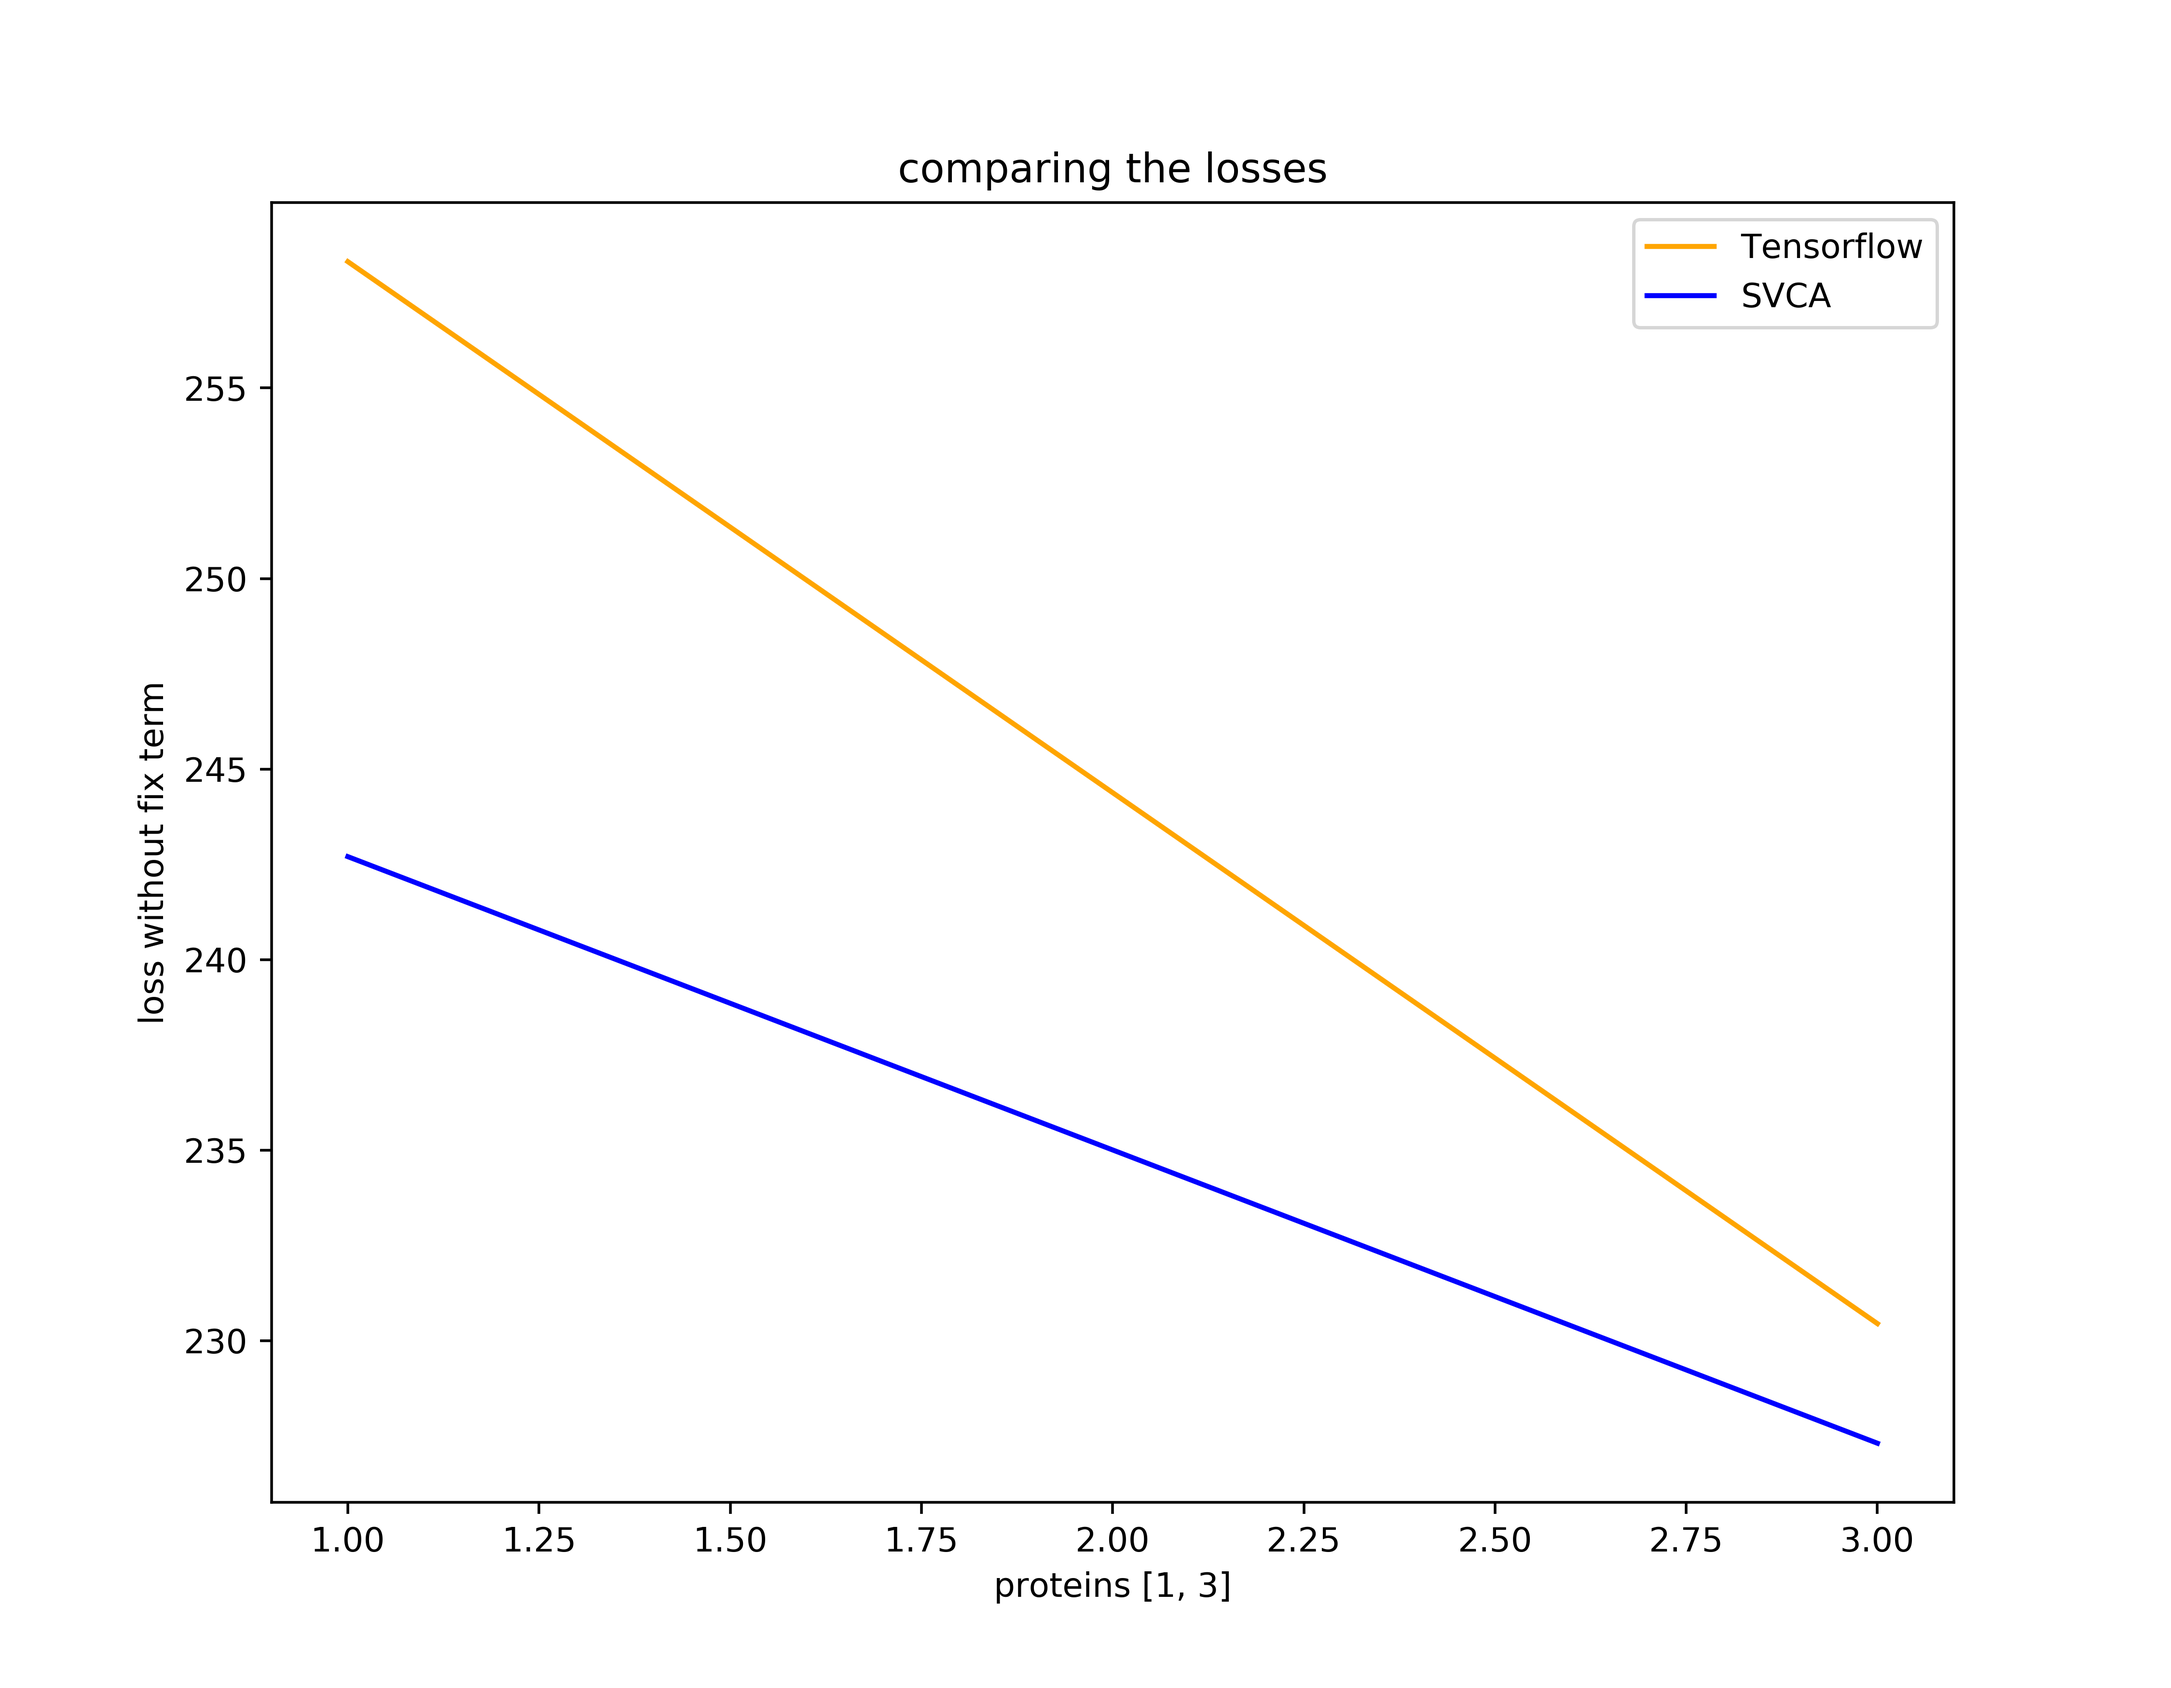
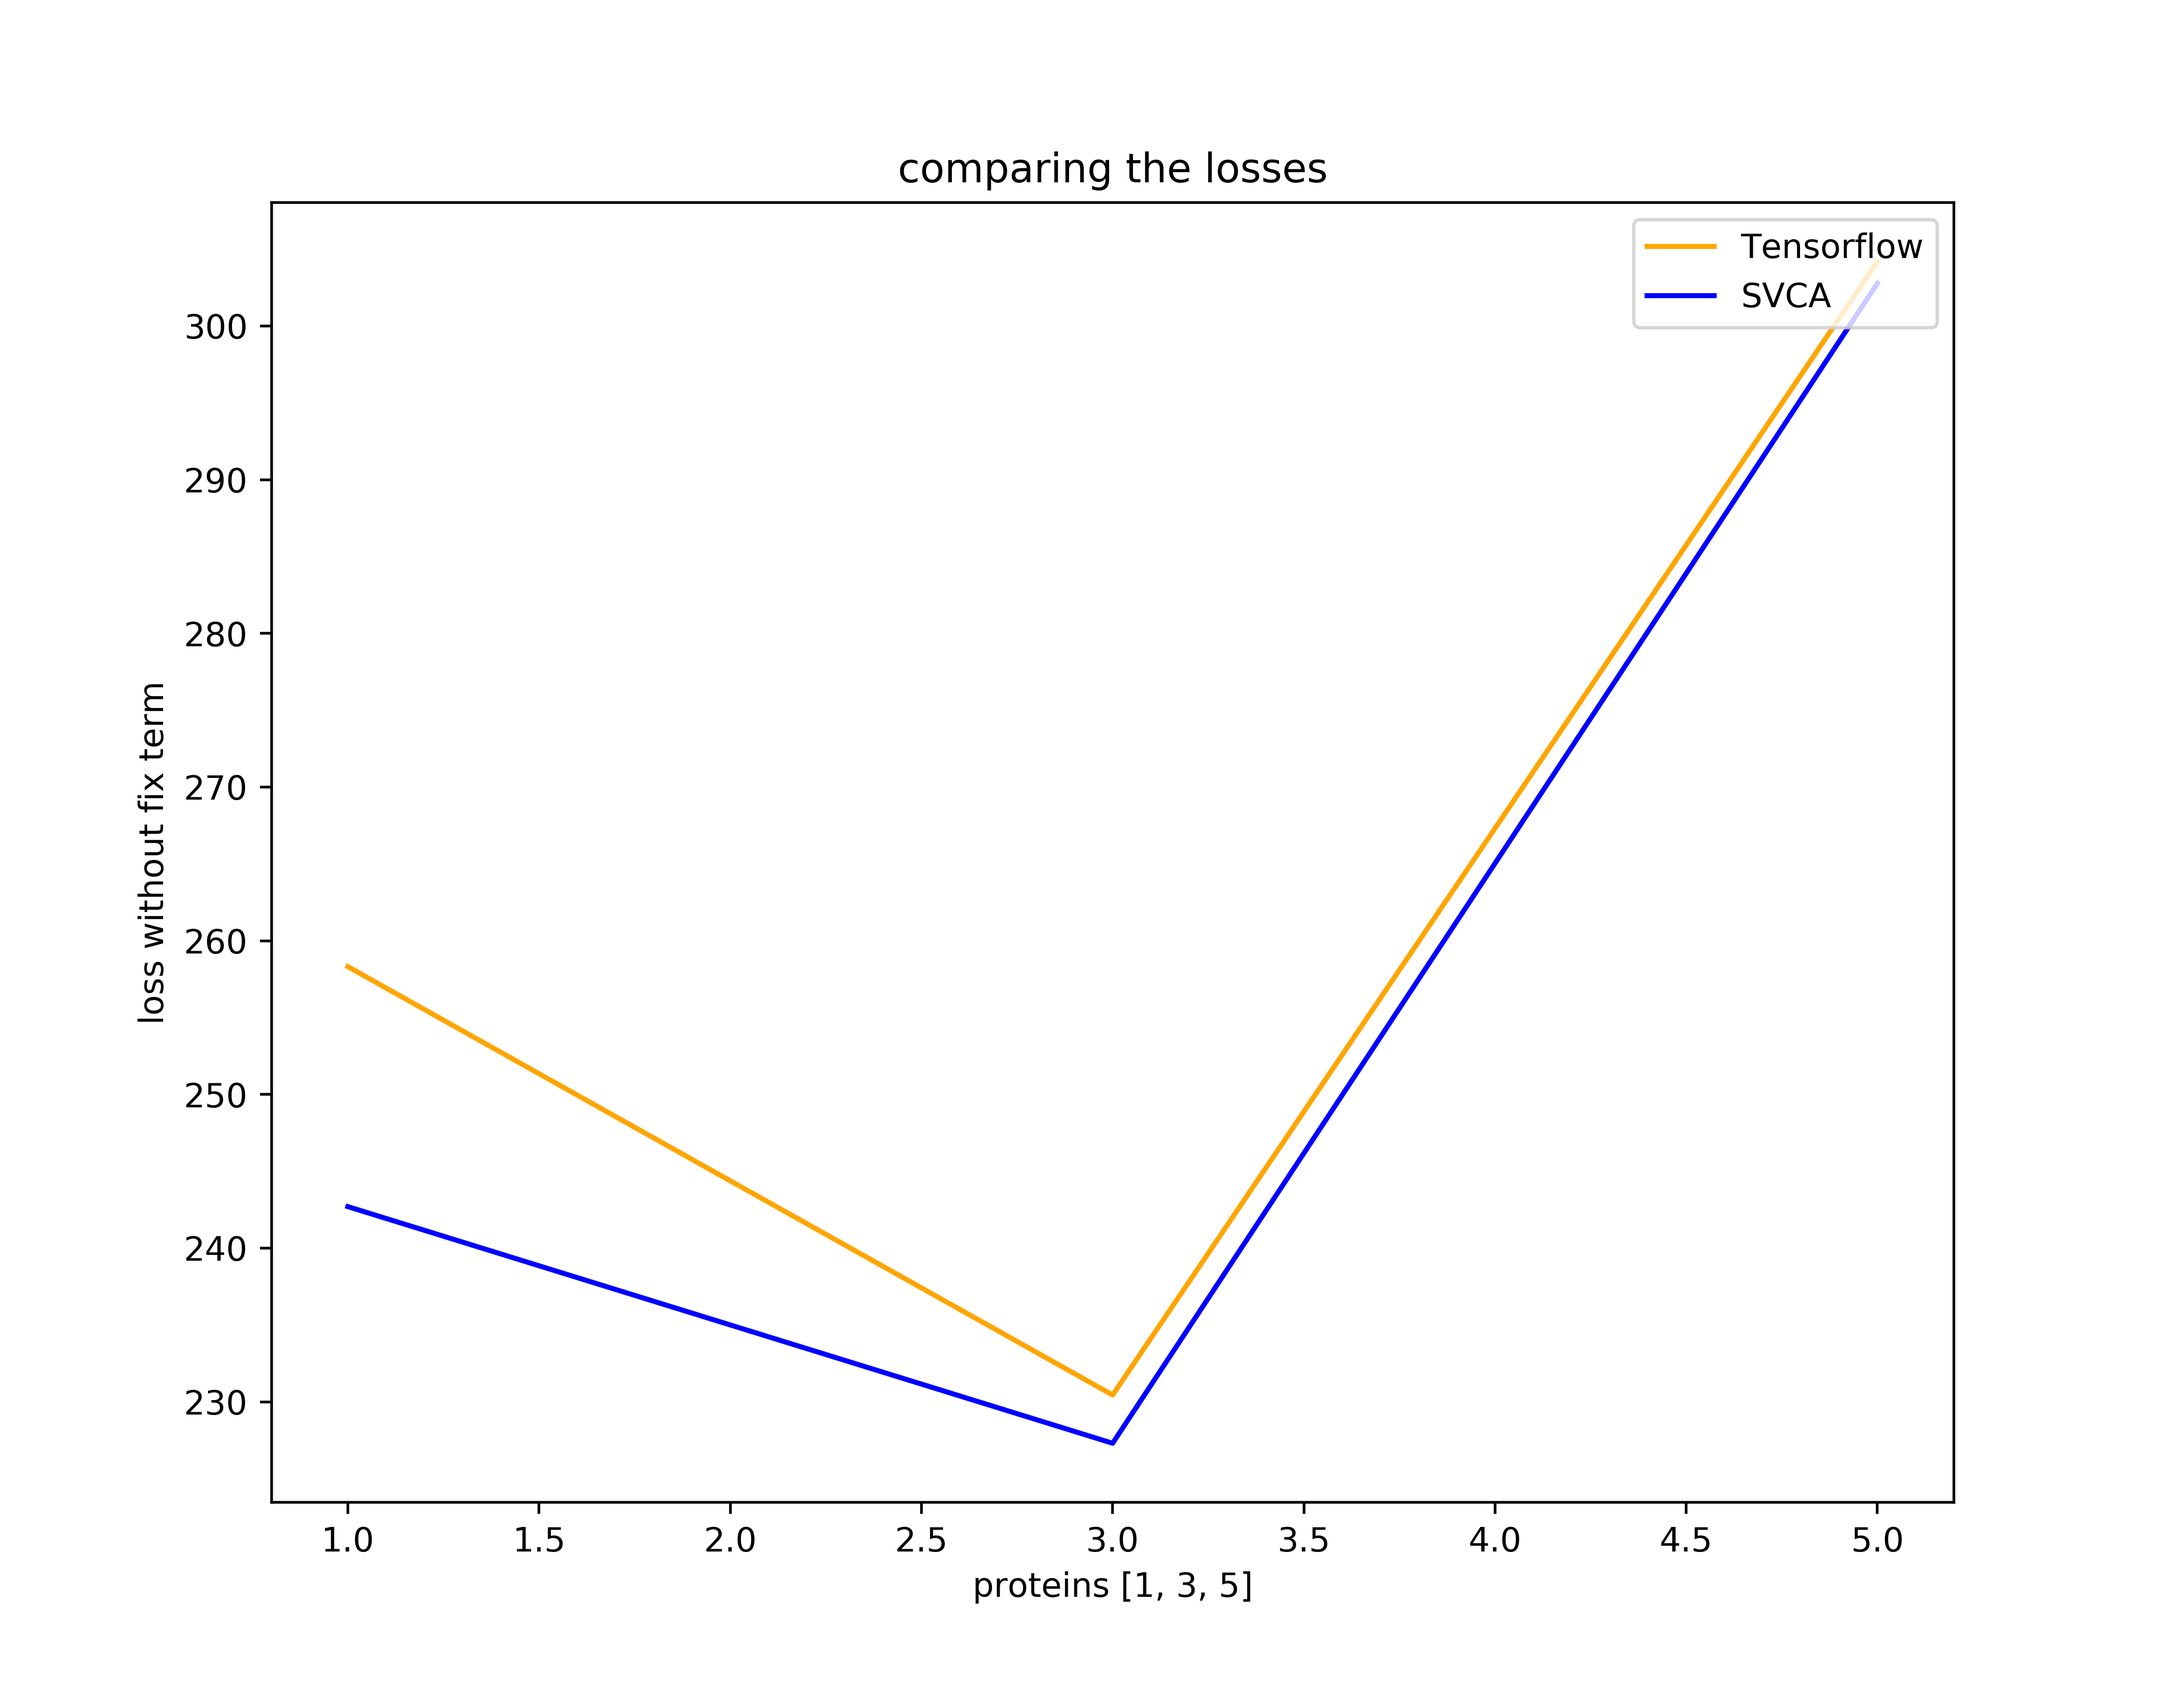
cleaning main code

diff --git a/codes/main.py b/codes/main.py
@@ -1,14 +1,12 @@
 import numpy as np
 import tensorflow as tf
-from utils import *
-from preparing_data import * 
 from loader import *
-import os
+from preparing_data import *
+from utils import *
 
 ix = tf.placeholder(shape=[None, None], dtype=tf.float64, name="x")
 y = tf.placeholder(shape=[None, 1], dtype=tf.float64, name="y")
-possition = tf.placeholder(shape=[None,None], dtype=tf.float64, name="position")
-
+possition = tf.placeholder(shape=[None, None], dtype=tf.float64, name="position")
 
 # randoms = tf.random_uniform([5], minval=0, maxval=100, dtype=tf.float64)
 randoms = [1., 1., 1., 1., 20.]
@@ -19,21 +17,25 @@ sig4 = tf.Variable(randoms[3], dtype=tf.float64, name="sig4")
 
 lr = tf.placeholder(shape=[], dtype=tf.float64, name='lr')
 
-### cov_matrix1 sigma* matrix      xxxxxxxxxxxxxxxxxxxxxx
-x = ix - tf.reduce_mean(ix,0)
+# cov_matrix1 sigma* matrix      xxxxxxxxxxxxxxxxxxxxxx
+x = ix - tf.reduce_mean(ix, 0)
 xxt = tf.matmul(x, tf.transpose(x))
 sig1_pow2 = tf.pow(sig1, 2)
 
 cov_matrix1 = sig1_pow2 * xxt
 
-### cov_matrix2 sigma* matrix
+
+# cov_matrix2 sigma* matrix
+
+
 def env_pos(x):
-    return tf.exp(((-1)*(0.5)*x)/(tf.pow(l,2)))
+    return tf.exp(((-1) * (0.5) * x) / (tf.pow(l, 2)))
+
 
 l = tf.Variable(randoms[4], dtype=tf.float64, name="l")
 zzt = tf.map_fn(env_pos, possition)
 sig2_pow2 = tf.pow(sig2, 2)
-cov_matrix2 = sig2_pow2 * zzt 
+cov_matrix2 = sig2_pow2 * zzt
 
 ### cov_matrix3 sigma* matrix
 u = tf.ones_like(xxt)
@@ -46,54 +48,51 @@ zx = tf.matmul(weight, x)
 old_zxxzt = tf.matmul(zx, tf.transpose(zx))
 zxxzt = old_zxxzt
 sig3_pow2 = tf.pow(sig3, 2)
-cov_matrix3 = sig3_pow2 * zxxzt 
+cov_matrix3 = sig3_pow2 * zxxzt
 
-### cov_matrix4 sigma* matrix
+# cov_matrix4 sigma* matrix
 noise__ = tf.eye(tf.shape(xxt)[0])
 noise = tf.cast(noise__, dtype=tf.float64)
 sig4_pow2 = tf.pow(sig4, 2)
 cov_matrix4 = sig4_pow2 * noise
 
-###### main covariance matrix
+# main covariance matrix
 cov_matrix = cov_matrix1 + cov_matrix2 + cov_matrix3 + cov_matrix4
 
-##### log likelihood term1
+# log likelihood term1
 # cov_det = tf.linalg.det(cov_matrix)
 cov_inv = tf.linalg.inv(cov_matrix)
 loss_term1 = tf.matmul(tf.matmul(tf.transpose(y), cov_inv), y)
 
-##### log likelihood term2
+# log likelihood term2
 primary_loss_term2 = tf.linalg.slogdet(cov_matrix)
-loss_term2 = primary_loss_term2[0]* primary_loss_term2[1]
+loss_term2 = primary_loss_term2[0] * primary_loss_term2[1]
 
-#### loss function :log likelihood without constant vairable n/2log(pi)
+# loss function :log likelihood without constant vairable n/2log(pi)
 loglikelihood = tf.add(loss_term1, loss_term2)
-loss = 0.5*loglikelihood
+loss = 0.5 * loglikelihood
 
-### optimizer
-optimizer = tf.train.AdamOptimizer(learning_rate= lr).minimize(loss)
+# optimizer
+optimizer = tf.train.AdamOptimizer(learning_rate=lr).minimize(loss)
 
-
-
-
-####### Main ##############################
+# Main ##############################
 from preparing_data import *
 import time
 
-_path= '../'
+_path = '../'
 _sample_name = 'P1_SAy10x1_G1'
 
-_, locations, protein_names = loading_pure_data(path= _path, sample_name=_sample_name)
+_, locations, protein_names = loading_pure_data(path=_path, sample_name=_sample_name)
 dist = distance_matrix(locations)
-all_x, all_y =preprocessing_data(path=_path, sample_name=_sample_name)
+all_x, all_y = preprocessing_data(path=_path, sample_name=_sample_name)
 
 loss_for_multiple_random_input = []
 opt_loss_for_multiple_random_input = []
 sigmas_for_multiple_random_input = []
 opt_sigmas_for_multiple_random_input = []
-#selected_proteins = [0, 1, 2, 3, 4, 5, 6, 7, 8, 9, 10, 11, 12, 13, 14, 15, 16, 17, 18, 19, 20, 21, 22, 23, 24,25]
-#selected_proteins = [0, 1, 5, 7, 10, 15, 21, 25]
-selected_proteins = [1, 3]
+# selected_proteins = [0, 1, 2, 3, 4, 5, 6, 7, 8, 9, 10, 11, 12, 13, 14, 15, 16, 17, 18, 19, 20, 21, 22, 23, 24,25]
+# selected_proteins = [0, 1, 5, 7, 10, 15, 21, 25]
+selected_proteins = [1, 3, 5]
 
 ### initial values are not important yet so i do not save theme
 
@@ -109,7 +108,7 @@ with tf.Session() as sess:
         opt_sigmas_selected_proteins = []
 
         threshold = 0.1
-        learning_rate=0.1
+        learning_rate = 0.1
         learning_rate_1 = 0.1
         learning_rate_2 = 1.5
 
@@ -124,12 +123,13 @@ with tf.Session() as sess:
             random_values = []
             print(j, ': ')
 
-            while( (i < epochs) and (abs(last_loss-new_loss)>threshold) and ( last_loss==np.inf or min_loss_ever== np.inf or last_loss==min_loss_ever or ((last_loss-min_loss_ever)/abs(min_loss_ever) < 0.6) )):
-#             while( (i < epochs) and (abs(last_loss-new_loss)>threshold)):
+            while ((i < epochs) and (abs(last_loss - new_loss) > threshold) and (
+                    last_loss == np.inf or min_loss_ever == np.inf or last_loss == min_loss_ever or (
+                    (last_loss - min_loss_ever) / abs(min_loss_ever) < 0.6))):
+                #             while( (i < epochs) and (abs(last_loss-new_loss)>threshold)):
                 a, b, c, d, lt, opt, run_loss, = sess.run(
-                    [sig1, sig2, sig3, sig4,l, optimizer, loss],
-                    feed_dict= {ix:all_x[j], y:all_y[j], possition: dist, lr:learning_rate})
-
+                    [sig1, sig2, sig3, sig4, l, optimizer, loss],
+                    feed_dict={ix: all_x[j], y: all_y[j], possition: dist, lr: learning_rate})
 
                 run_loss = run_loss[0]
                 i += 1
@@ -142,7 +142,7 @@ with tf.Session() as sess:
                 if min_loss_ever > run_loss:
                     min_loss_ever = run_loss
                     s1_opt, s2_opt, s3_opt, s4_opt, l_opt = (a, b, c, d, lt)
-#                         cm1_opt, cm2_opt, cm3_opt, cm4_opt = (cm1, cm2, cm3, cm4)
+                #                         cm1_opt, cm2_opt, cm3_opt, cm4_opt = (cm1, cm2, cm3, cm4)
                 if run_loss > 1500:
                     learning_rate = learning_rate_2
                 else:
@@ -160,25 +160,22 @@ with tf.Session() as sess:
             t1 = time.time()
             print(i)
 
-
             # loading opt conds!
-#             sess.run([tf.assign(sig1, s1_opt), tf.assign(sig2, s2_opt), tf.assign(sig3, s3_opt), tf.assign(sig4, s4_opt), tf.assign(l, l_opt)])
+        #             sess.run([tf.assign(sig1, s1_opt), tf.assign(sig2, s2_opt), tf.assign(sig3, s3_opt), tf.assign(sig4, s4_opt), tf.assign(l, l_opt)])
 
-#             print("sig1 is: ", s1_opt, "sig2 is: ", s2_opt, "sig3 is: ", s3_opt, "sig4 is: ", s4_opt, "The L is: ", l_opt, "Loss is: ", min_loss_ever)
-#             print("sig1 is: ", gowers[-1][0], "sig2 is: ", gowers[-1][1], "sig3 is: ", gowers[-1][2], "sig4 is: ", gowers[-1][3], "The L is: ", l_opt, "Loss is: ", min_loss_ever)
-#             print("time of calculation for ***",prot_names[j],"*** is: " ,t1-t0)
-#             print("--------------------------------------")
-        loss_for_multiple_random_input.append(    loss_for_selected_proteins)
+        #             print("sig1 is: ", s1_opt, "sig2 is: ", s2_opt, "sig3 is: ", s3_opt, "sig4 is: ", s4_opt, "The L is: ", l_opt, "Loss is: ", min_loss_ever)
+        #             print("sig1 is: ", gowers[-1][0], "sig2 is: ", gowers[-1][1], "sig3 is: ", gowers[-1][2], "sig4 is: ", gowers[-1][3], "The L is: ", l_opt, "Loss is: ", min_loss_ever)
+        #             print("time of calculation for ***",prot_names[j],"*** is: " ,t1-t0)
+        #             print("--------------------------------------")
+        loss_for_multiple_random_input.append(loss_for_selected_proteins)
         opt_loss_for_multiple_random_input.append(opt_loss_for_selected_proteins)
-        sigmas_for_multiple_random_input.append(    sigmas_for_selected_proteins)
+        sigmas_for_multiple_random_input.append(sigmas_for_selected_proteins)
         opt_sigmas_for_multiple_random_input.append(opt_sigmas_selected_proteins)
 
 #         loss_for_100_random_input.append(prot_loss)
 #         signature_for_100_random_input.append(signatures)
 #         epochs_for_100_random_input.append(epochs_list)
 #         print(epochs_for_100_random_input[-1])
-
-
 
 
 svca_loss = loading_losses_of_svca(protein_names, selected_proteins)
